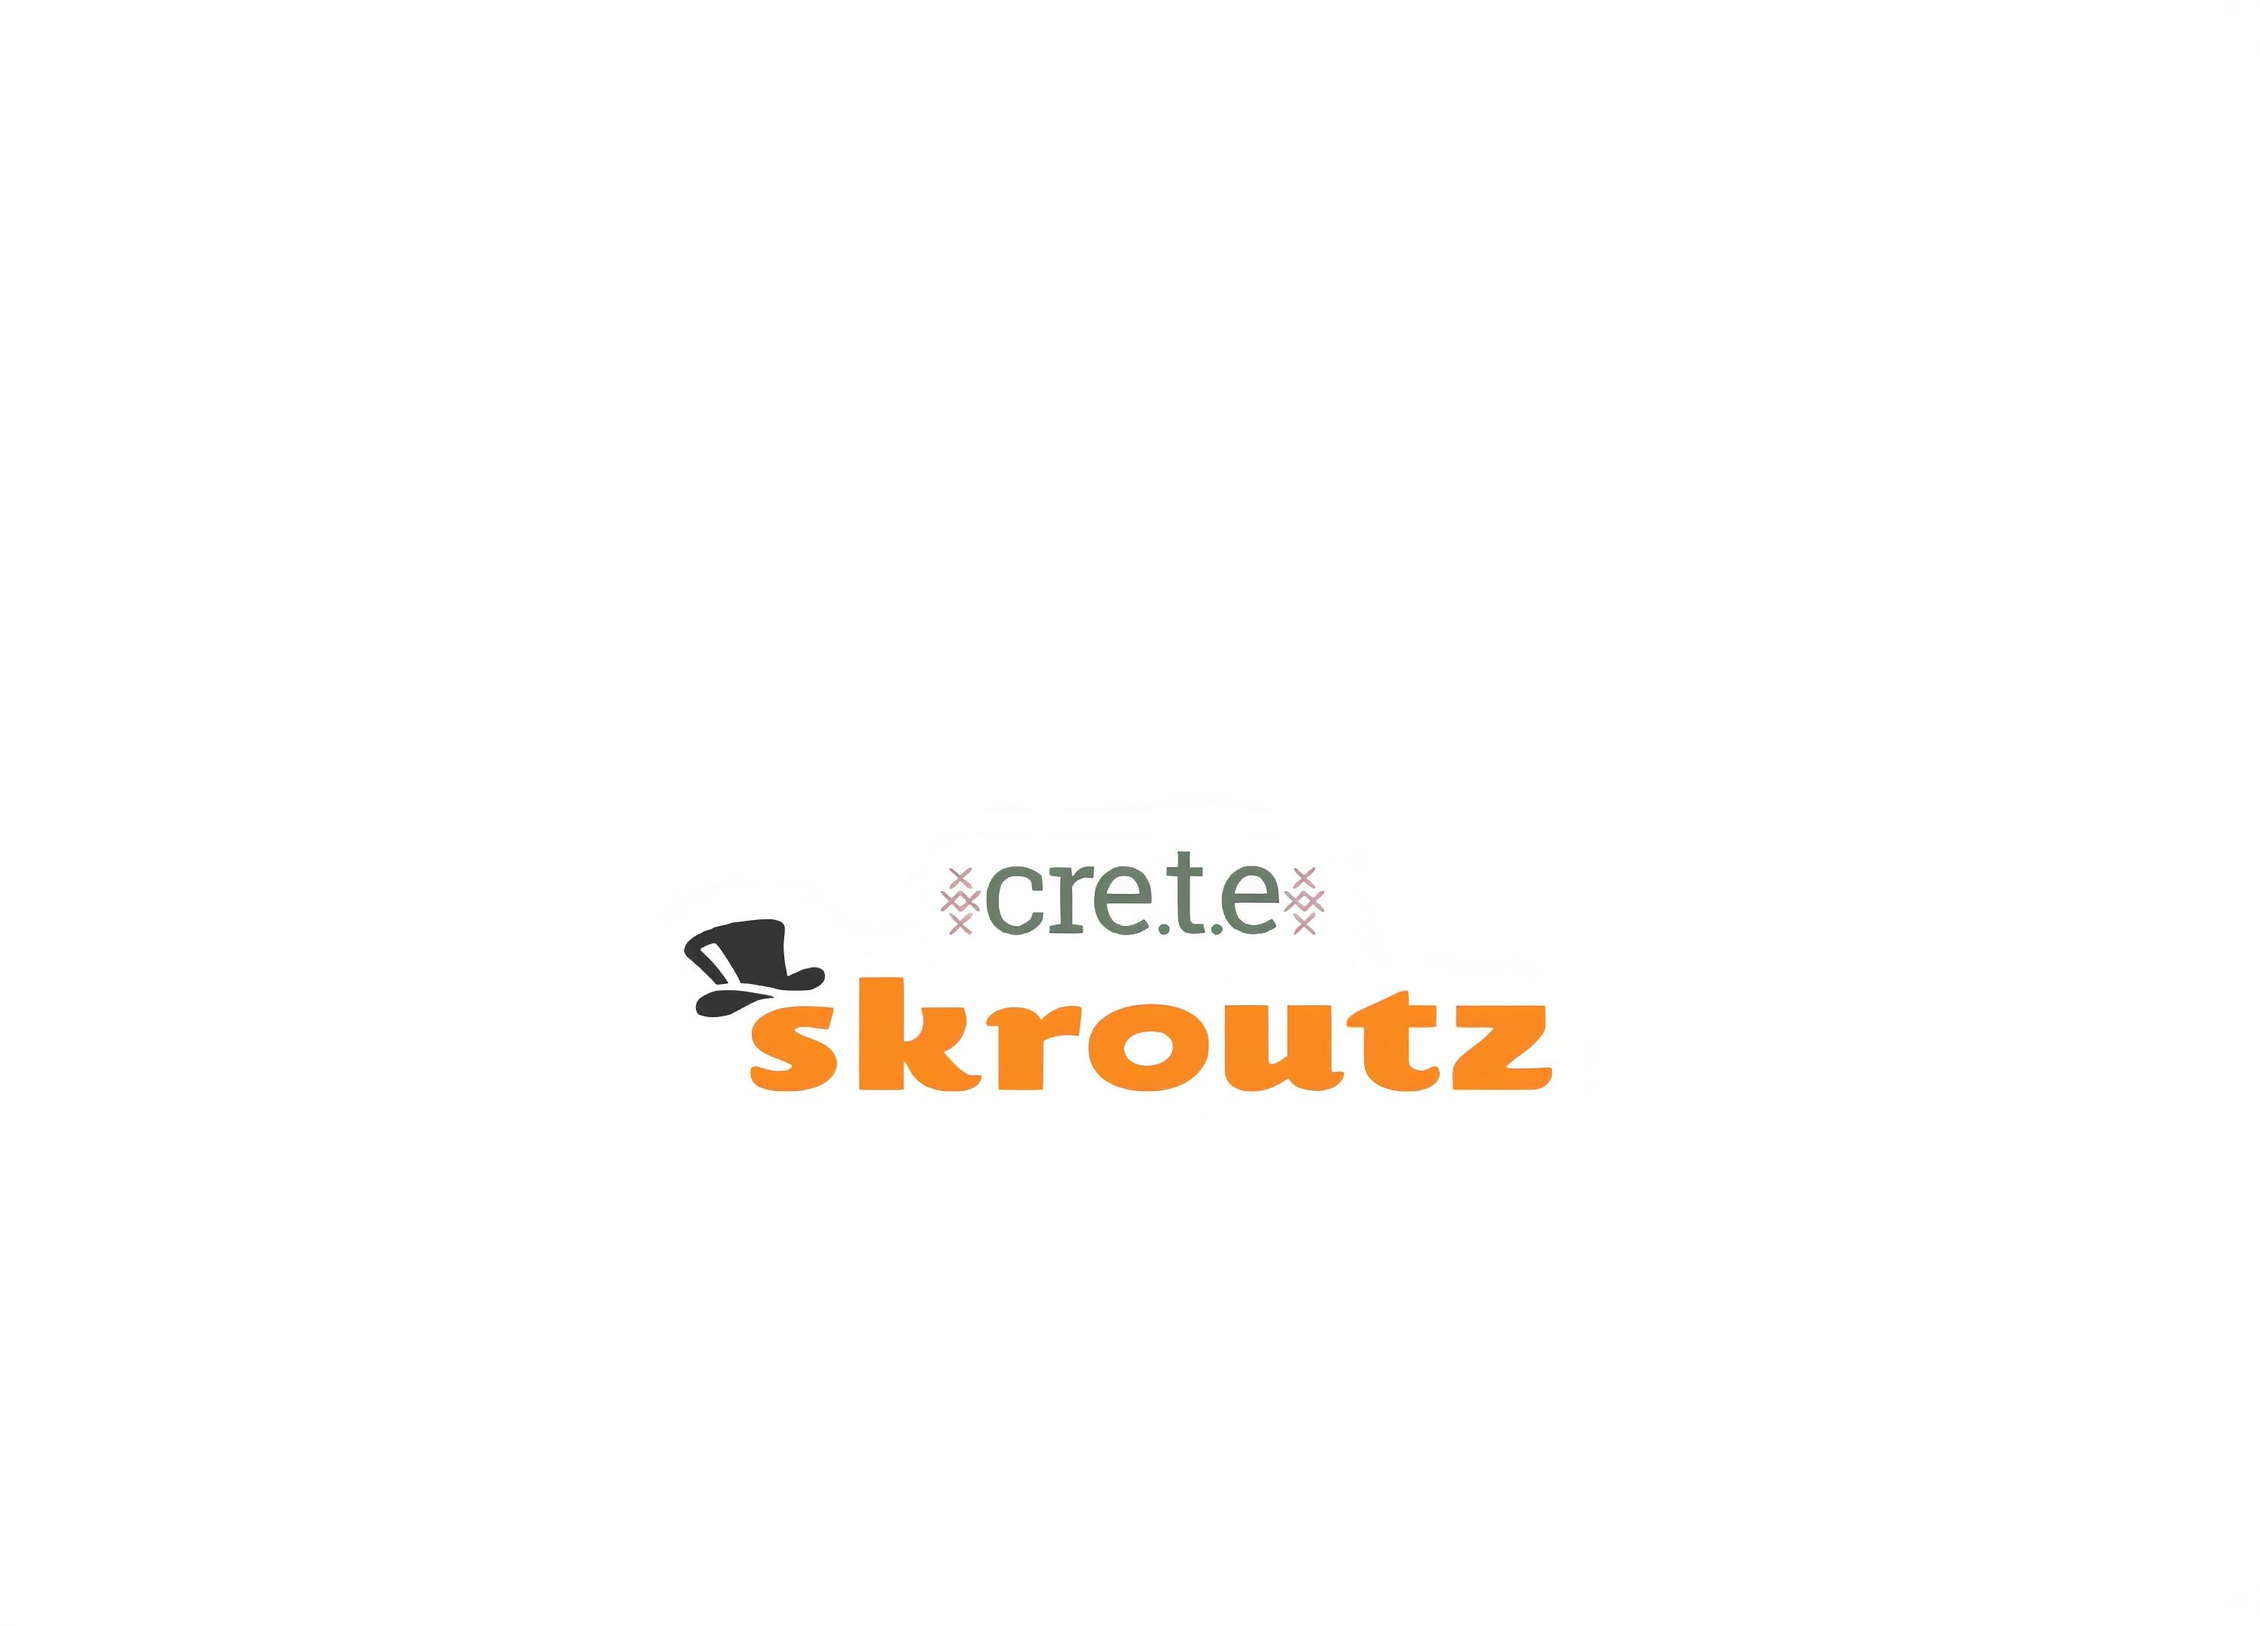
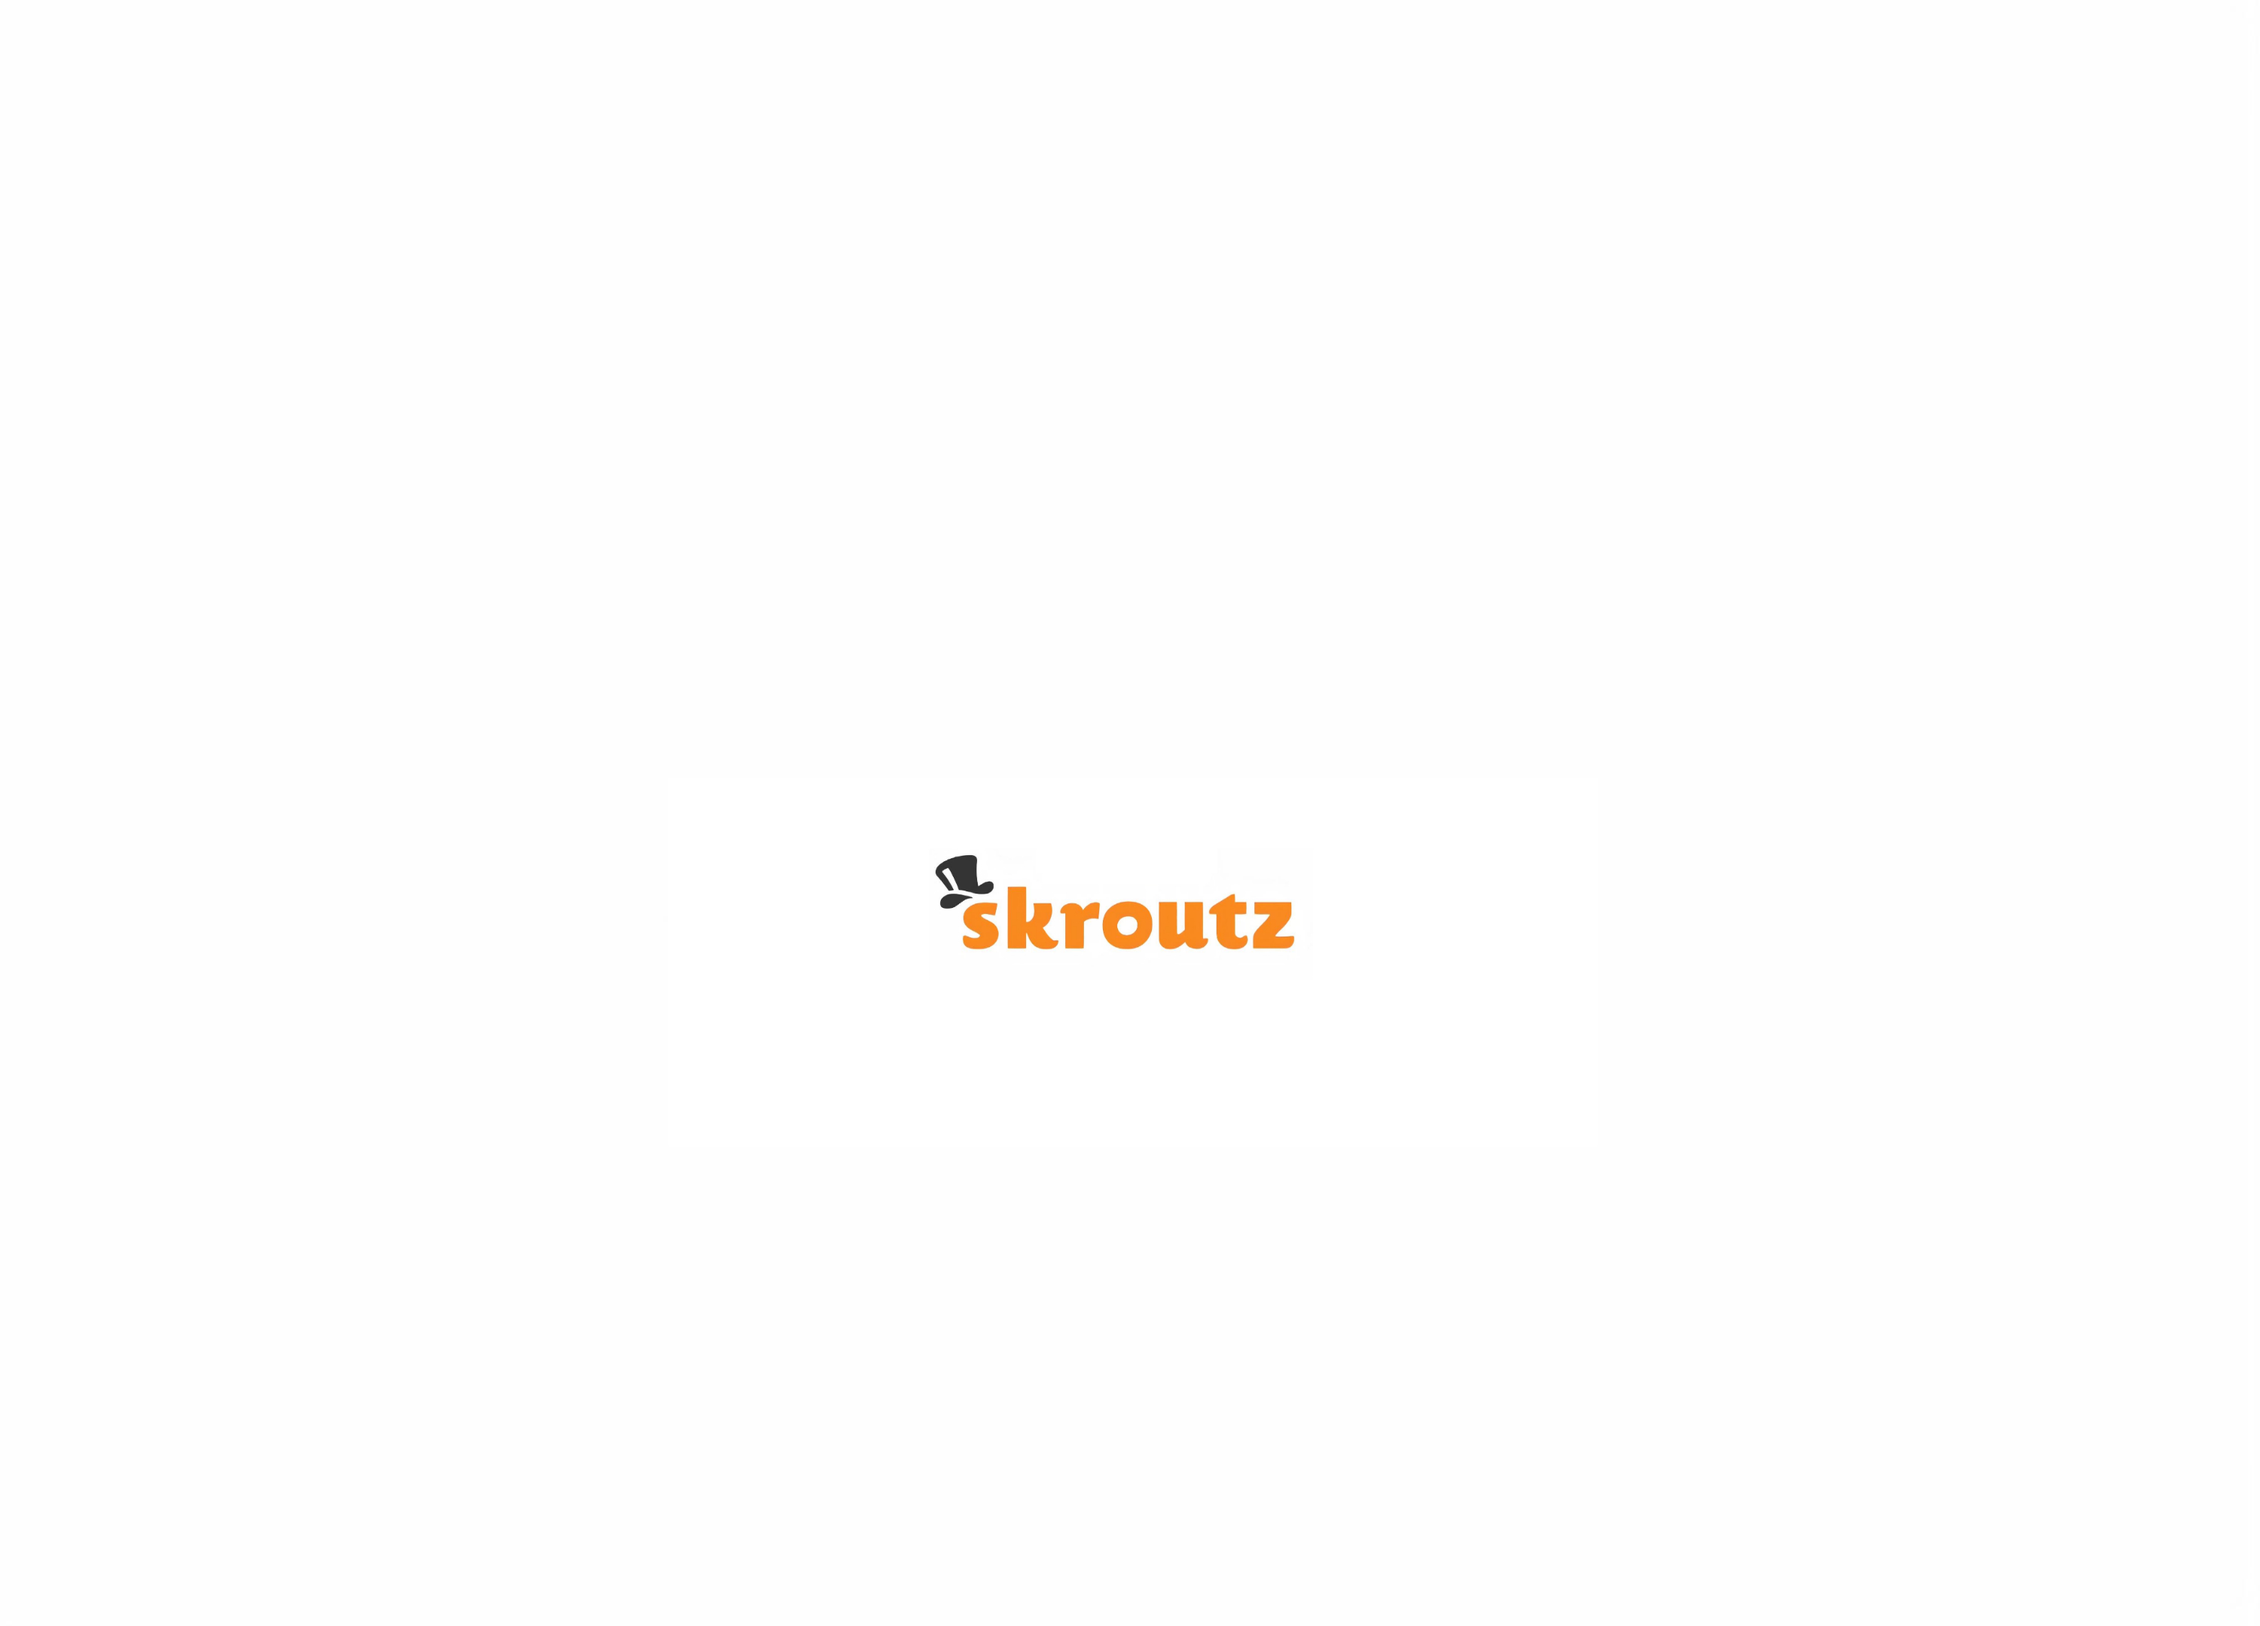
fix

Changed region(s): [[0.31, 0.5589, 0.682, 0.683], [0.403, 0.5278, 0.589, 0.5899]]

diff --git a/about.html b/about.html
@@ -63,7 +63,7 @@ http://www.tooplate.com/view/2082-pure-mix
             <div class="row">
 
               <div class="brand">
-                <a href="index.html">Creative|Thread|Experts</a>
+                  <img src="images/logo.jpg">
               </div>
 
               <div class="navicon">
@@ -77,8 +77,8 @@ http://www.tooplate.com/view/2082-pure-mix
                     <i class="icon ion-close-round close-iframe"></i>
                     <div class="intro-inner">
                      	<ul id="nav-menu">
-                         <li><a href="index.html">Home</a></li>
-                       	 <li><a href="about.html">About</a></li>
+                         <li><a href="index.html">Αρχικη</a></li>
+                       	 <li><a href="about.html">Ο δημιουργος</a></li>
 
                       </ul>
                     </div>
@@ -137,8 +137,7 @@ As I have studied graphic and interior design in Greece, I worked for years in t
 			<blockquote>So welcome to my handmade world!! I am so happy I can share my creations with you!! :-D
 In my shop you will find thread jewelries, mini embroidery accessories, decorative embroidery gifts, and stitching handiworks!</blockquote>
 			<img src="images/about-img.jpg" class="img-responsive" alt="About">
-			<p>So welcome to my handmade world!! I am so happy I can share my creations with you!! :-D
-In my shop you will find thread jewelries, mini embroidery accessories, decorative embroidery gifts, and stitching handiworks!</p>
+		
 		</div>
 
 		<div class="clearfix"></div>

diff --git a/index.html b/index.html
@@ -64,7 +64,7 @@ http://www.tooplate.com/view/2082-pure-mix
             <div class="row">
 
               <div class="brand">
-            <a href="index.html">Creative|Thread|Expert</a>
+           <img src="images/logo.jpg" a href="images/logo.jpg" ></img>
               </div>
 
               <div class="navicon">
@@ -78,8 +78,8 @@ http://www.tooplate.com/view/2082-pure-mix
                     <i class="icon ion-close-round close-iframe"></i>
                     <div class="intro-inner">
                       <ul id="nav-menu">
-                        <li><a href="index.html">Home</a></li>
-                        <li><a href="about.html">About</a></li>
+                      <li><a href="index.html">Αρχικη</a></li>
+                       	 <li><a href="about.html">Ο δημιουργος</a></li>
                       </ul>
                     </div>
                   </div>
@@ -103,9 +103,10 @@ http://www.tooplate.com/view/2082-pure-mix
 
 			<div class="col-xs-offset-6 col-xs-8 col-xs-offset-2 col-xs-8">
           <div class="header-thumb">
-              <h1 class="wow fadeIn" data-wow-delay="1.6s">Welcome</h1>
-              <h3 class="wow fadeInUp" data-wow-delay="1.9s">Store by</h3>
+              <h1 class="wow fadeIn" data-wow-delay="1.6s">Καλωσηρθατε!</h1>
+             
           </div>
+		     <h3 class="wow fadeInUp" data-wow-delay="1.9s">Powered by</h3>
 			</div>
 
 		</div>
